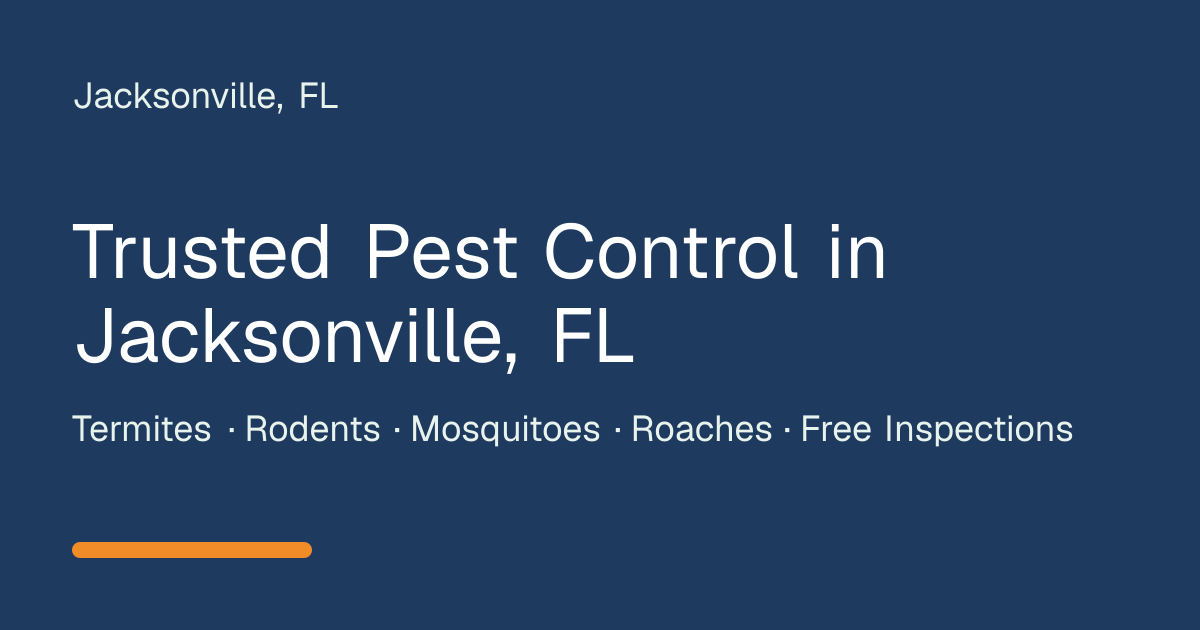
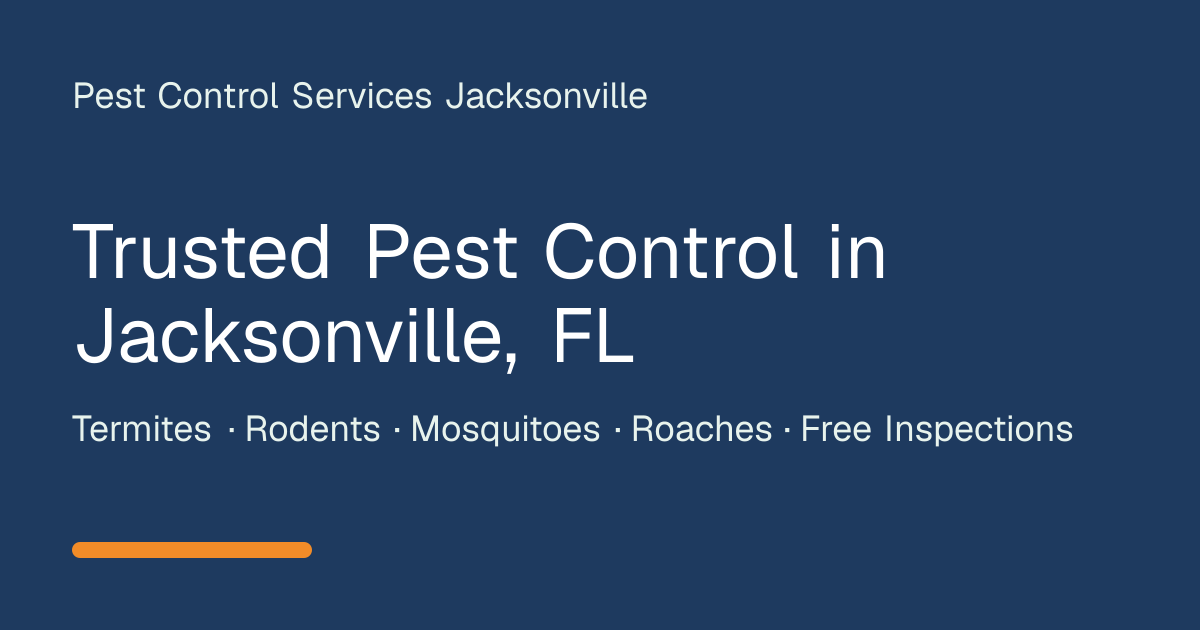
Fill in business details, comment out unknown config values, add service photos
Comment out email, street, zip, geo, license number, Google profile and
review links, and GA4 ID until real values exist (fields made optional;
every reader already goes through filled()). Regenerate the social share
image now that the business name is set.

Changed region(s): [[0.0617, 0.1206, 0.555, 0.181]]

diff --git a/src/config/site.ts b/src/config/site.ts
@@ -22,20 +22,20 @@ export type SiteConfig = {
   tagline: string;
   phoneDisplay: string;
   phoneHref: string;
-  email: string;
+  email?: string;
   address: {
-    street: string;
+    street?: string;
     city: string;
     state: string;
-    zip: string;
+    zip?: string;
     showPublicly: boolean;
   };
-  geo: { lat: string; lng: string };
-  licenseNumber: string;
+  geo: { lat?: string; lng?: string };
+  licenseNumber?: string;
   yearsInBusiness: string;
   hours: DayHours[];
-  googleBusinessProfileUrl: string;
-  googleReviewUrl: string;
+  googleBusinessProfileUrl?: string;
+  googleReviewUrl?: string;
   googleRating: null | { rating: number; count: number };
   social: {
     facebook: string;
@@ -49,7 +49,7 @@ export type SiteConfig = {
   logo: string;
   contentReviewer: { name: string; role: string };
   siteUrl: string;
-  ga4Id: string;
+  ga4Id?: string;
   formEmbed: {
     src: string;
     height: number;
@@ -60,29 +60,32 @@ export type SiteConfig = {
 };
 
 export const siteConfig: SiteConfig = {
-  businessName: "[BUSINESS_NAME]",
-  legalName: "[LEGAL_BUSINESS_NAME]",
+  businessName: "Pest Control Services Jacksonville",
+  legalName: "Pest Control Services Jacksonville",
   tagline: "Trusted Pest Control in Jacksonville, FL",
-  phoneDisplay: "[PHONE_DISPLAY]", // e.g. (904) 555-0123
-  phoneHref: "[PHONE_E164]", // e.g. +19045550123
-  email: "[EMAIL]",
+  phoneDisplay: "(904) 555-0123", // e.g. (904) 555-0123
+  phoneHref: "+19045550123", // e.g. +19045550123
+  // email: "[EMAIL]",
   address: {
-    street: "[STREET]",
+    // street: "[STREET]",
     city: "Jacksonville",
     state: "FL",
-    zip: "[ZIP]",
+    // zip: "[ZIP]",
     showPublicly: false, // service-area business: hide street address if false
   },
-  geo: { lat: "[LAT]", lng: "[LNG]" },
-  licenseNumber: "[FDACS_LICENSE_NUMBER]", // Florida Dept. of Agriculture & Consumer Services
-  yearsInBusiness: "[YEARS]",
+  geo: {
+    // lat: "[LAT]",
+    // lng: "[LNG]",
+  },
+  // licenseNumber: "[FDACS_LICENSE_NUMBER]", // Florida Dept. of Agriculture & Consumer Services
+  yearsInBusiness: "18",
   hours: [
     { days: "Mon-Fri", open: "07:00", close: "19:00" },
     { days: "Sat", open: "08:00", close: "16:00" },
     { days: "Sun", open: "closed", close: "closed" },
   ],
-  googleBusinessProfileUrl: "[GBP_URL]",
-  googleReviewUrl: "[GOOGLE_REVIEW_LINK]",
+  // googleBusinessProfileUrl: "[GBP_URL]",
+  // googleReviewUrl: "[GOOGLE_REVIEW_LINK]",
   googleRating: null, // fill only with REAL data, e.g. { rating: 4.9, count: 87 }
   social: { facebook: "", instagram: "", nextdoor: "", yelp: "", bbb: "" },
   memberships: [], // e.g. ["Florida Pest Management Association"] ONLY if real
@@ -92,11 +95,11 @@ export const siteConfig: SiteConfig = {
   logo: "", // OWNER: path under /public, e.g. "/images/logo.png"
   // OWNER: replace with the licensed technician who reviews service pages and blog posts
   contentReviewer: {
-    name: "[TECHNICIAN_NAME]",
+    name: "Seth Pikus",
     role: "Licensed Pest Control Technician",
   },
   siteUrl: "https://pestcontrolservicesjacksonville.com",
-  ga4Id: "[GA4_ID]",
+  // ga4Id: "[GA4_ID]",
   /**
    * The renting company's own contact form (from their CRM or scheduling tool).
    * Leave `src` empty to use the site's built-in quote form. When set, every quote
